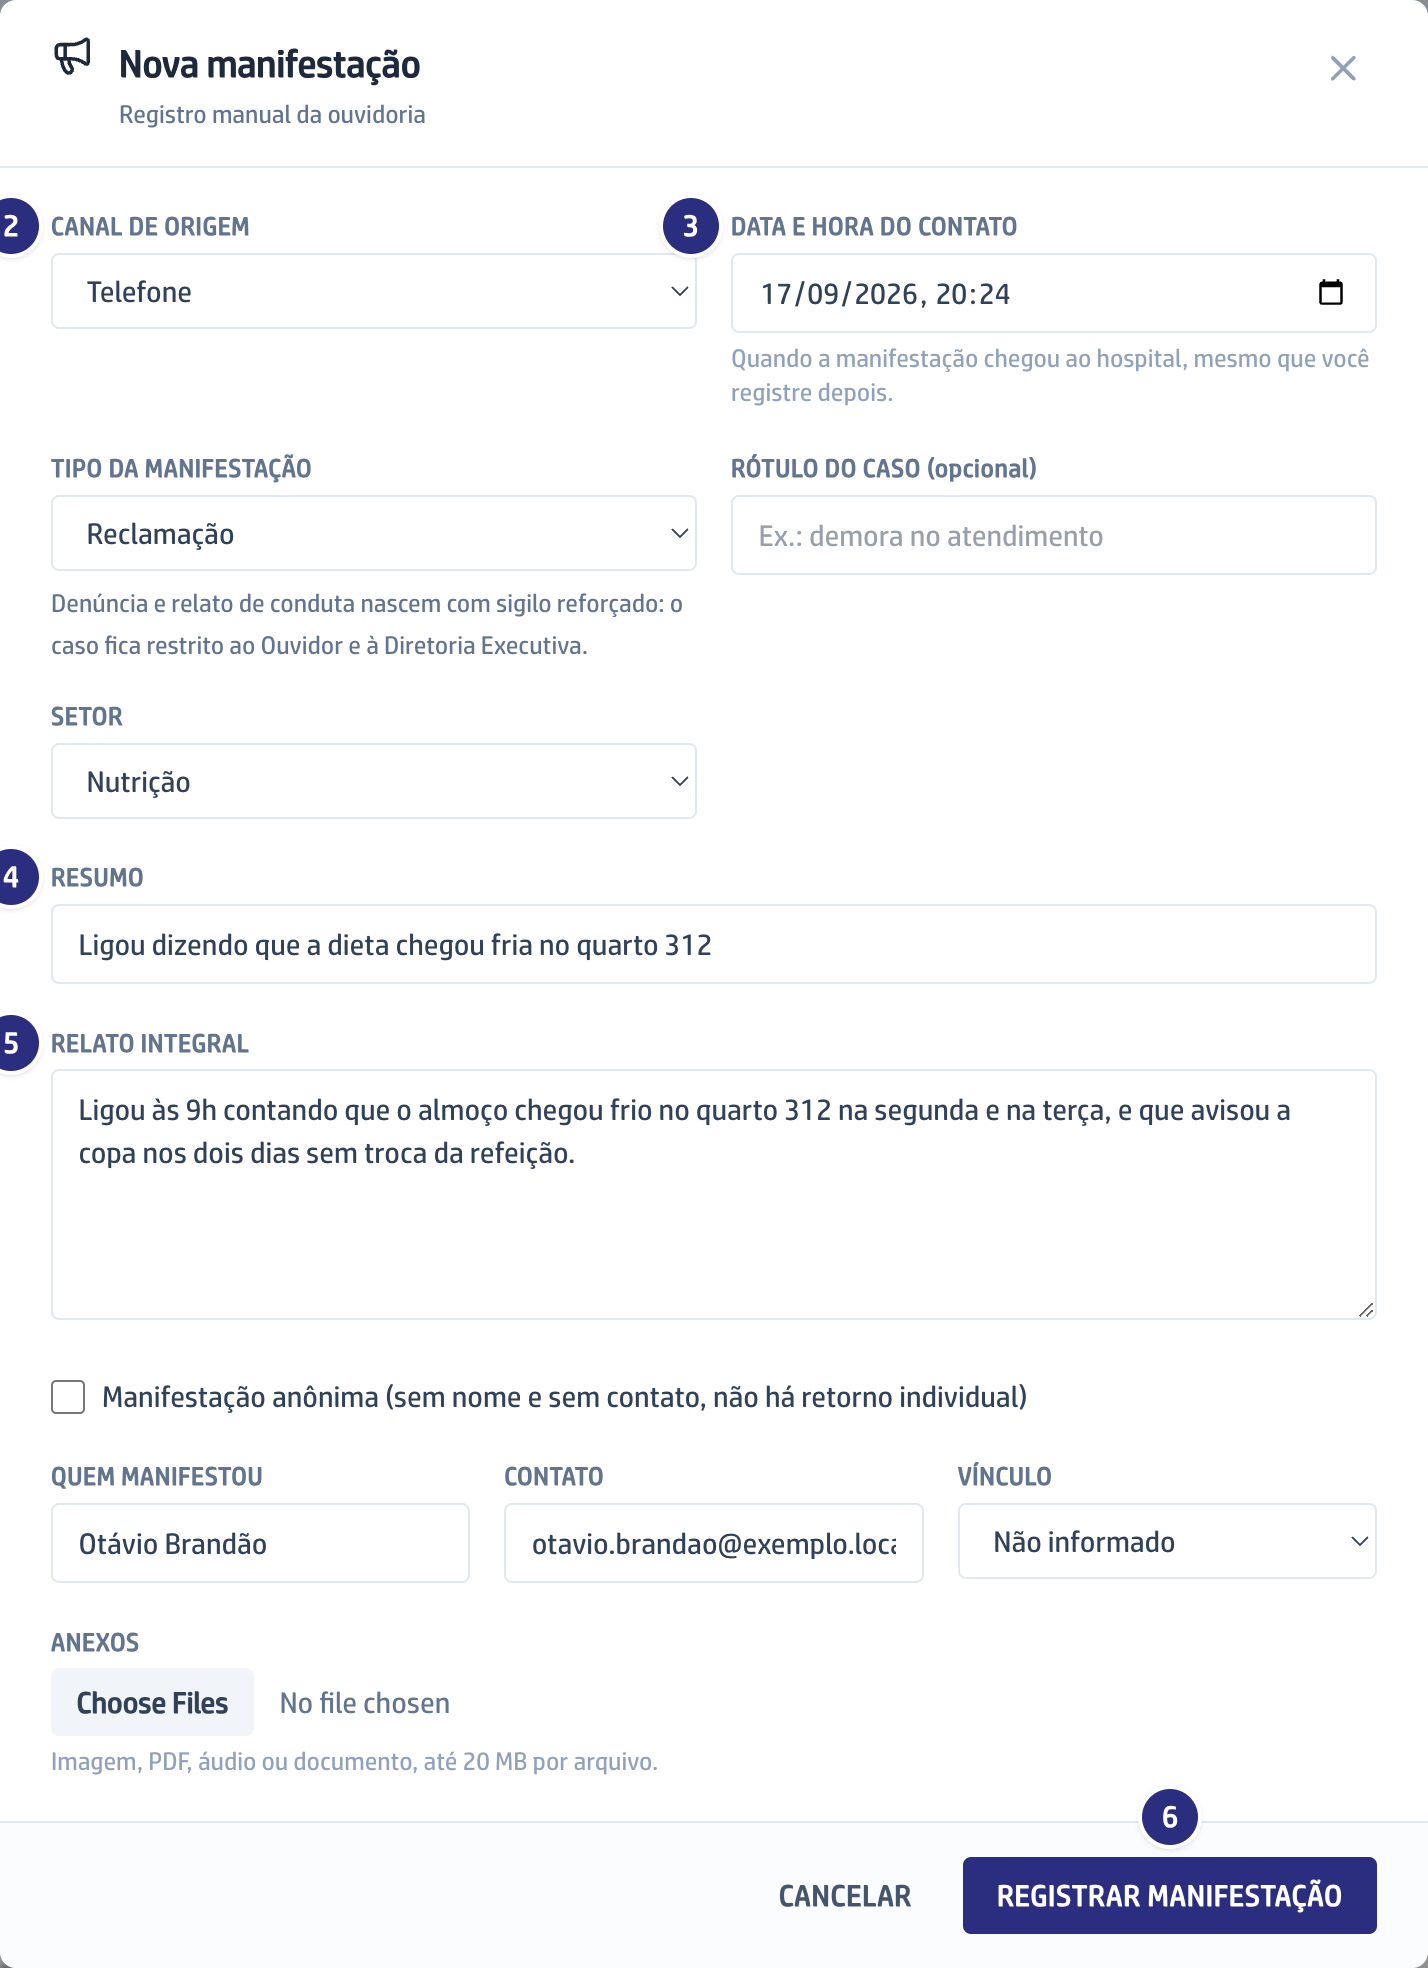
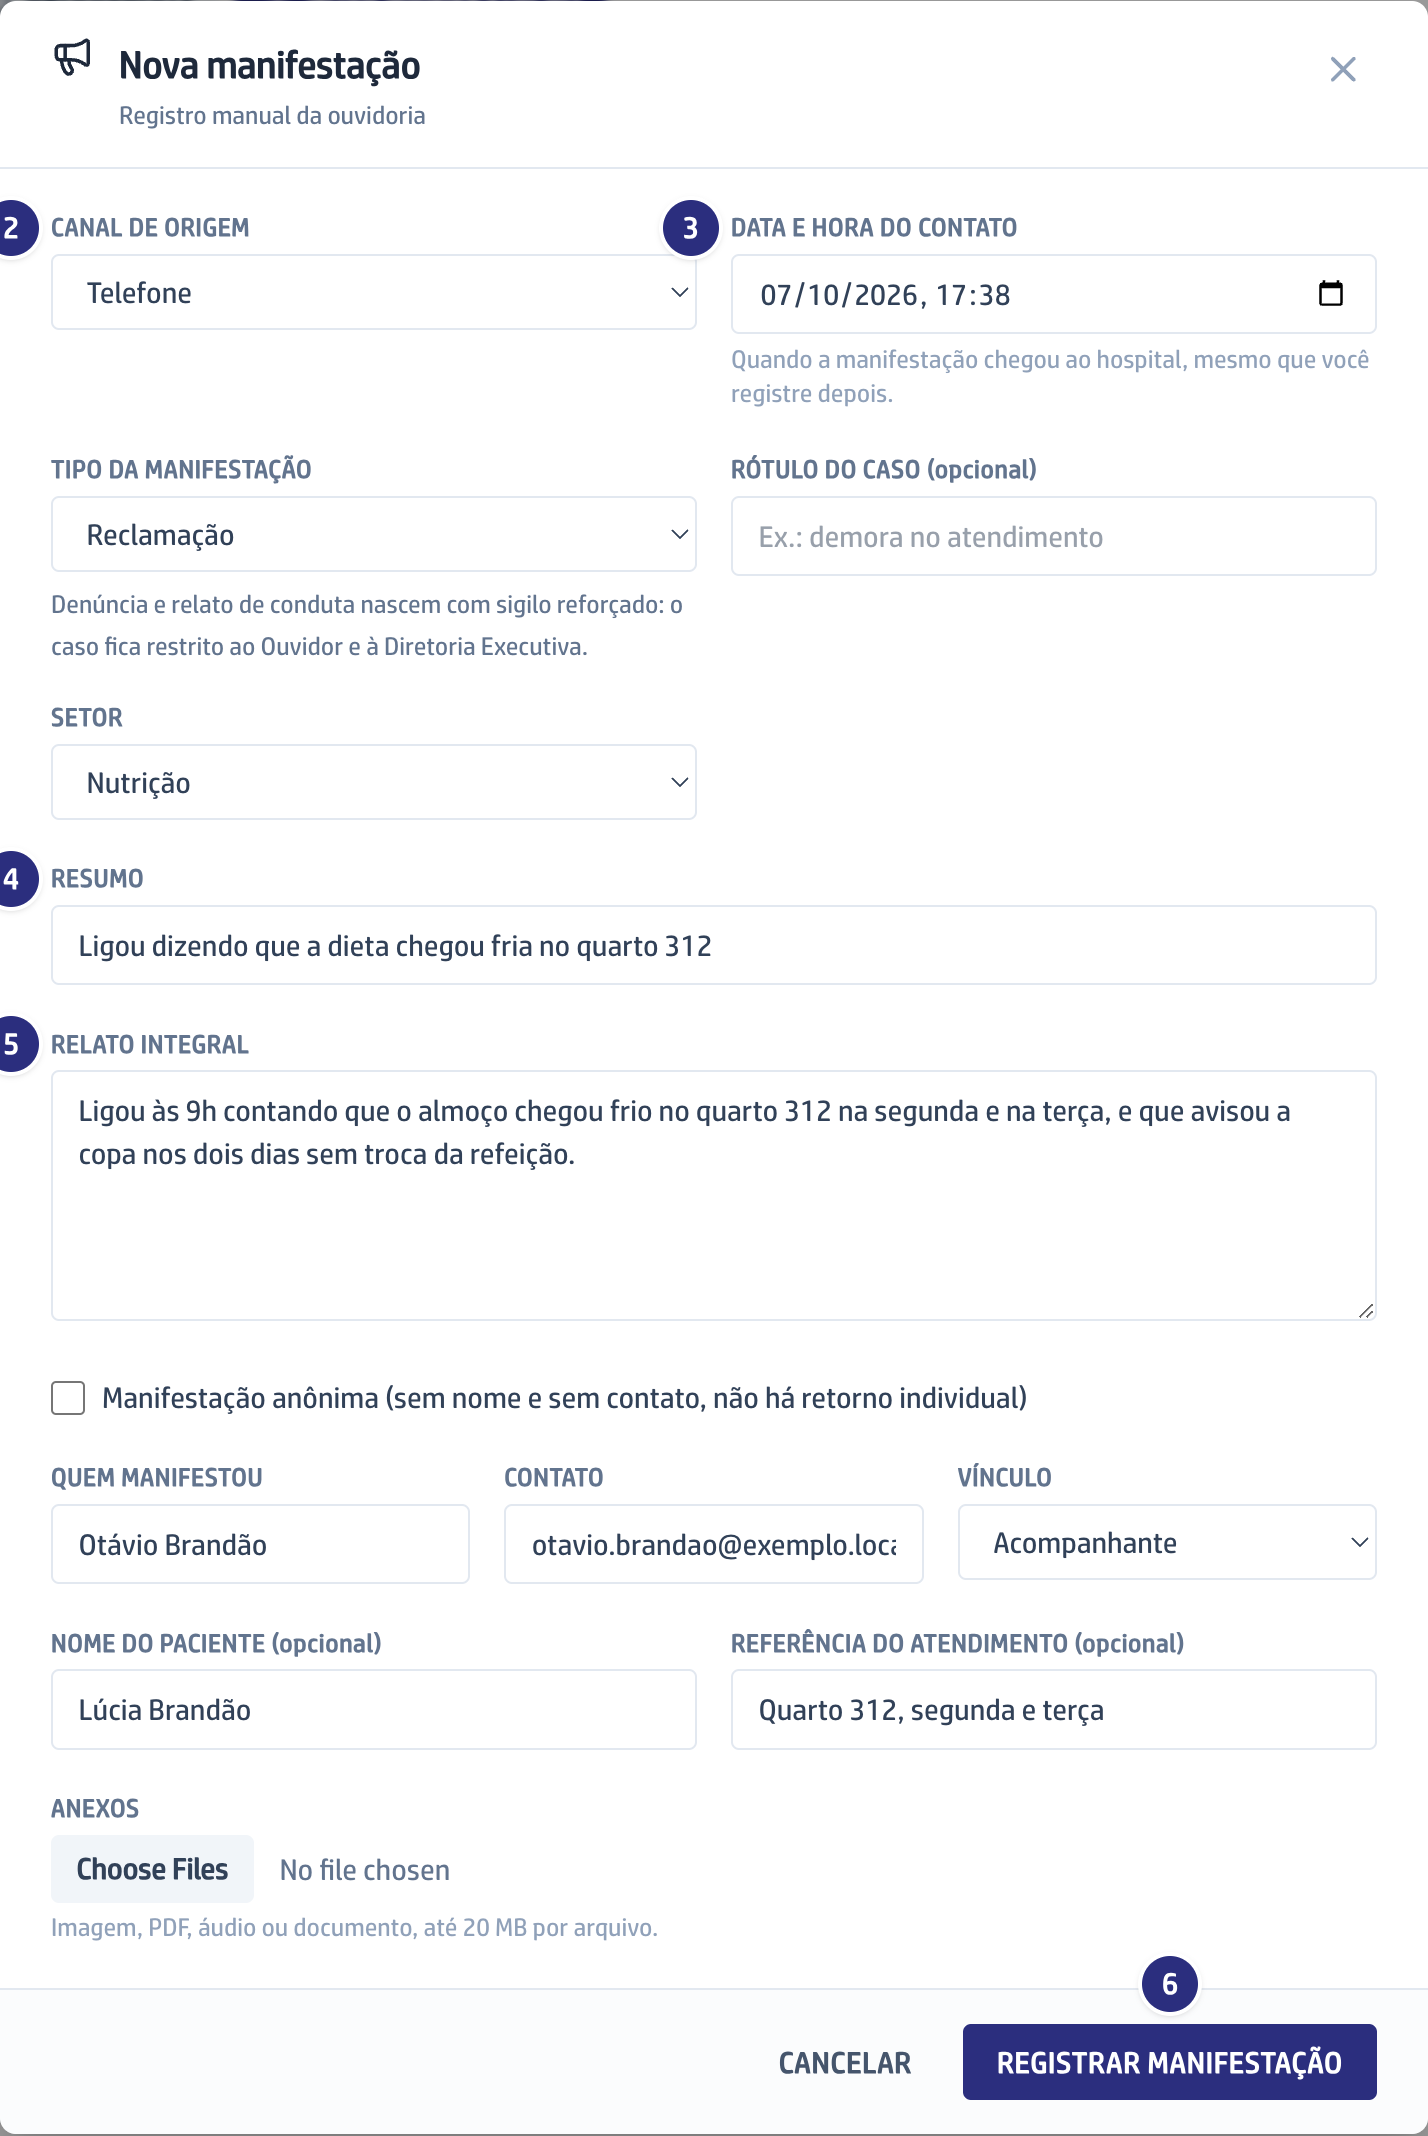
docs(manual): ouvidoria, Paciente do caso nas Novidades e print novo da janela de classificar (#1105)
O print da janela de classificar sai do caso comum (o roteiro desmarca o
sigilo do caso sem tipo) e mostra a ajuda nova do extrato (#769). O
registro manual, a tela do responsável e o email ganham o Paciente do
caso (PRD #659), com entrada nas Novidades. A reposição do roteiro passa
a renovar as datas relativas e o paciente dos casos de exemplo.

Closes #1078

Claude-Session: https://claude.ai/code/session_01C9ChUoKVJnr48W6cvSvKiT

diff --git a/docs/manual/prints/ouvidoria.py b/docs/manual/prints/ouvidoria.py
@@ -888,6 +888,13 @@ def validar_modal(page, base: str, saida: Path) -> None:
     janela = _janela_do_modal(page)
     janela.locator("select").first.select_option(label="Reclamação")
     page.wait_for_timeout(500)
+    # O caso do QR chega sem tipo, logo sigiloso (fail-closed), e a janela
+    # mantém o sigilo até o ouvidor desmarcar: numa reclamação comum, é o que
+    # ele faz. Sem isto o print mostra a ajuda do sigilo ("e só ele") no lugar
+    # da ajuda do caso comum, que é a que a página descreve (issue #1078).
+    janela.get_by_label("Sigilo reforçado", exact=False).uncheck()
+    page.wait_for_timeout(400)
+    janela.get_by_text("do nome de quem manifestou", exact=False).first.wait_for(timeout=5000)
     janela.locator("select").nth(1).select_option(label="Recepção")
     page.wait_for_timeout(500)
     janela.get_by_text("Médio", exact=True).click()
@@ -1135,6 +1142,10 @@ def nova_manifestacao_modal(page, base: str, saida: Path) -> None:
     )
     janela.locator("#nome").fill("Otávio Brandão")
     janela.locator("#contato").fill("otavio.brandao@exemplo.local")
+    janela.locator("#vinculo").select_option(label="Acompanhante")
+    # O Paciente do caso (issue #663): quem ligou fala pela mãe internada.
+    janela.locator("#paciente-nome").fill("Lúcia Brandão")
+    janela.locator("#paciente-referencia").fill("Quarto 312, segunda e terça")
     sem_foco(page)
     balao(page, janela.get_by_text("Canal de origem", exact=False).first, 2)
     balao(page, janela.get_by_text("Data e hora do contato", exact=False).first, 3)
@@ -1255,6 +1266,8 @@ def email_demanda(page, base: str, saida: Path) -> None:
         "tipo_manifestacao": "reclamacao",
         "sigilo_reforcado": False,
         "prazo_area_em": "2026-09-22T18:00:00+00:00",
+        "paciente_nome": "Jorge Siqueira",
+        "paciente_referencia": "entrada principal, manhã de terça",
     }
     html = _montar_no_app(
         "__import__('app.services.ouvidoria_notificacoes', fromlist=['x'])"
@@ -1600,6 +1613,10 @@ CASOS = {
         "manifestante_nome": "Dalva Siqueira",
         "manifestante_contato": "dalva.siqueira@exemplo.local",
         "manifestante_vinculo": "acompanhante",
+        # O Paciente do caso (issue #664): a tela do responsável o mostra logo
+        # abaixo de quem manifestou, e é por ele que a área acha o atendimento.
+        "paciente_nome": "Jorge Siqueira",
+        "paciente_referencia": "entrada principal, manhã de terça",
         "prazo_area_em": "+3 dias",
         "validada_em": "-1 dia",
         "token": True,
@@ -1781,6 +1798,13 @@ def _login_de_exemplo(url: str, chave: str, email: str, senha: str) -> str:
     raise SystemExit(f"login {email} não encontrado depois de criado.")
 
 
+def _relativa(valor) -> bool:
+    """Data escrita relativa a hoje na receita, como "+3 dias" ou "-1 dia"."""
+    return (
+        isinstance(valor, str) and valor[:1] in ("-", "+") and "dia" in valor
+    )
+
+
 def _caso_semeado(url: str, chave: str, apelido: str, receita: dict) -> dict:
     """Cria a manifestação de exemplo, ou devolve a que já existe.
 
@@ -1805,7 +1829,7 @@ def _caso_semeado(url: str, chave: str, apelido: str, receita: dict) -> dict:
     for campo, valor in receita.items():
         if campo in ("prorrogacao", "token"):
             continue
-        if isinstance(valor, str) and (valor.startswith("-") or valor.startswith("+")) and "dia" in valor:
+        if _relativa(valor):
             linha[campo] = _quando(valor)
         else:
             linha[campo] = valor
@@ -2009,6 +2033,18 @@ def restaurar_os_casos() -> None:
             if receita.get("arquivada_em")
             else None,
         }
+        # O paciente entrou nos casos depois que eles já estavam semeados
+        # (issue #1078), e a semeadura não regrava caso existente: a reposição
+        # leva os dois campos para a linha que nasceu sem eles.
+        for campo in ("paciente_nome", "paciente_referencia"):
+            if campo in receita:
+                campos[campo] = receita[campo]
+        # Datas relativas ("+3 dias") também voltam ao ponto de partida: o caso
+        # semeado em setembro chegava vencido em outubro, e o print do portal
+        # mostrava o prazo estourado no caso que existe para estar no prazo.
+        for campo, valor in receita.items():
+            if campo not in ("prorrogacao", "token", "arquivada_em") and _relativa(valor):
+                campos[campo] = _quando(valor)
         _rest(
             url,
             chave,

diff --git a/docs/manual/src/content/docs/ouvidoria/classificar-e-acionar-um-caso.md b/docs/manual/src/content/docs/ouvidoria/classificar-e-acionar-um-caso.md
@@ -1,7 +1,7 @@
 ---
 title: Classificar e acionar um caso
 description: Como decidir do que se trata, escolher a área responsável e mandar o caso para ela com prazo.
-prd: [317, 469, 471]
+prd: [317, 469, 471, 659]
 draft: false
 papel: [Ouvidoria]
 video: cap-2
@@ -19,11 +19,14 @@ trabalhar: nada aciona uma área sozinho.
 
 ## Passo a passo
 
-1. Abra o caso, leia o relato inteiro e clique em **Validar e acionar**.
+1. Abra o caso, leia o relato inteiro e clique em **Validar e acionar**. Com o
+   aviso de paciente sem nome, confirme o nome com quem manifestou antes.
 
    ![Página do caso com o botão Validar e acionar](../../../assets/ouvidoria/caso-validar.png)
 
 2. Escolha o **Tipo da manifestação**. É o tipo que faz o caso nascer sigiloso.
+   O caso sem tipo chega com **Sigilo reforçado** marcado: numa reclamação
+   comum, desmarque.
 
    ![Janela de classificar e acionar preenchida](../../../assets/ouvidoria/validar-modal.png)
 
@@ -40,7 +43,8 @@ trabalhar: nada aciona uma área sozinho.
 
 - **O acionamento não sai:** falta o **Extrato para o setor**. É o pedido da
   Ouvidoria ao setor, com as suas palavras: no caso comum ele vai junto do
-  resumo, do relato inteiro e do nome de quem falou, e no sigiloso vai sozinho.
+  resumo, do relato inteiro, do nome de quem falou e do paciente, e no sigiloso
+  vai sozinho.
 - **Nada veio preenchido pela Ana nem pelo que a pessoa marcou:** o palpite
   dos dois fica à parte e nunca vira classificação.
 - **A caixa de sigilo reforçado não desmarca:** o tipo escolhido é sigiloso por

diff --git a/docs/manual/src/content/docs/ouvidoria/novidades.md b/docs/manual/src/content/docs/ouvidoria/novidades.md
@@ -1,13 +1,27 @@
 ---
 title: Novidades
 description: O que mudou na Ouvidoria a cada entrega, da mais nova para a mais antiga.
-prd: [287, 317, 318, 319, 467, 468, 469, 470, 471, 591, 598, 706, 720]
+prd: [287, 317, 318, 319, 467, 468, 469, 470, 471, 591, 598, 659, 706, 720]
 draft: false
 sidebar:
   order: 90
 ---
 
 Uma entrada por entrega, com o mês em que ela entrou no ar.
+
+## O acompanhante diz de quem fala e a área acha o atendimento
+
+Setembro de 2026. O formulário passou a perguntar, logo depois do relato, se ele
+é sobre quem escreve ou sobre outra pessoa. Quem fala por outra pessoa pode dar
+o nome do paciente e quando ou onde foi o atendimento, mesmo no anônimo. O
+registro manual ganhou os mesmos dois campos, o caso mostra um aviso quando o
+nome do paciente faltou, e a área recebe o paciente no email e na tela de
+resposta, fora dos casos sigilosos. Os acabamentos chegaram no começo de
+outubro.
+
+Está em [Registrar uma manifestação pelo formulário](/ouvidoria/registrar-manifestacao-pelo-formulario/),
+em [Registrar uma manifestação pela Ouvidoria](/ouvidoria/registrar-uma-manifestacao-pela-ouvidoria/)
+e em [Responder um caso pelo portal do setor](/ouvidoria/responder-um-caso-pelo-portal-do-setor/).
 
 ## O registro manual diz por onde o caso chegou
 

diff --git a/docs/manual/src/content/docs/ouvidoria/registrar-uma-manifestacao-pela-ouvidoria.md b/docs/manual/src/content/docs/ouvidoria/registrar-uma-manifestacao-pela-ouvidoria.md
@@ -1,7 +1,7 @@
 ---
 title: Registrar uma manifestação pela Ouvidoria
 description: Como lançar no sistema o caso que chegou por telefone, balcão, WhatsApp, e-mail ou avaliação na internet.
-prd: [317, 720]
+prd: [317, 659, 720]
 draft: false
 papel: [Ouvidoria]
 video: cap-1
@@ -37,7 +37,8 @@ mensagem ou avaliou o hospital na internet.
 5. Cole em **Relato integral** o que a pessoa contou, inteiro e sem correção, e
    preencha **Quem manifestou**, **Contato** e **Vínculo**. Do Google, do
    Reclame Aqui ou do Instagram, o endereço da avaliação ou o @ vai no
-   **Contato**: não há campo próprio para ele.
+   **Contato**: não há campo próprio para ele. Quem fala por outra pessoa?
+   Preencha **Nome do paciente** e **Referência do atendimento**.
 6. Junte os **Anexos** e clique em **Registrar manifestação**. O protocolo
    aparece na tela para você informar a quem falou.
 

diff --git a/docs/manual/src/content/docs/ouvidoria/responder-um-caso-pelo-portal-do-setor.md b/docs/manual/src/content/docs/ouvidoria/responder-um-caso-pelo-portal-do-setor.md
@@ -1,7 +1,7 @@
 ---
 title: Responder um caso pelo portal do setor
 description: Como contar o que a sua área fez, pelo link do e-mail, sem entrar no sistema.
-prd: [317, 469, 598]
+prd: [317, 469, 598, 659]
 draft: false
 papel: [Gestor do setor]
 login: false
@@ -24,7 +24,9 @@ vale para aquele caso, para você, e não abre de novo depois da resposta.
 
    ![E-mail de demanda da Ouvidoria com o botão do caso](../../../assets/ouvidoria/email-demanda.png)
 
-2. Olhe a gravidade e o **Prazo de resposta**, no alto da tela.
+2. Olhe a gravidade e o **Prazo de resposta**, no alto da tela. Abaixo de **Quem
+   manifestou** vem o **Paciente**, para achar o atendimento; sem nome ou em
+   caso sigiloso, ele não aparece.
 
    ![Tela de quem responde, no celular](../../../assets/ouvidoria/portal-setor-mobile.png)
 

diff --git a/docs/manual/src/content/docs/ouvidoria/registrar-manifestacao-pelo-formulario.md b/docs/manual/src/content/docs/ouvidoria/registrar-manifestacao-pelo-formulario.md
@@ -1,7 +1,7 @@
 ---
 title: Registrar uma manifestação pelo formulário
 description: Como contar uma reclamação, um elogio ou uma sugestão para a Ouvidoria e receber o protocolo na hora.
-prd: [731]
+prd: [659, 731]
 draft: false
 papel: [Qualquer pessoa]
 login: false
